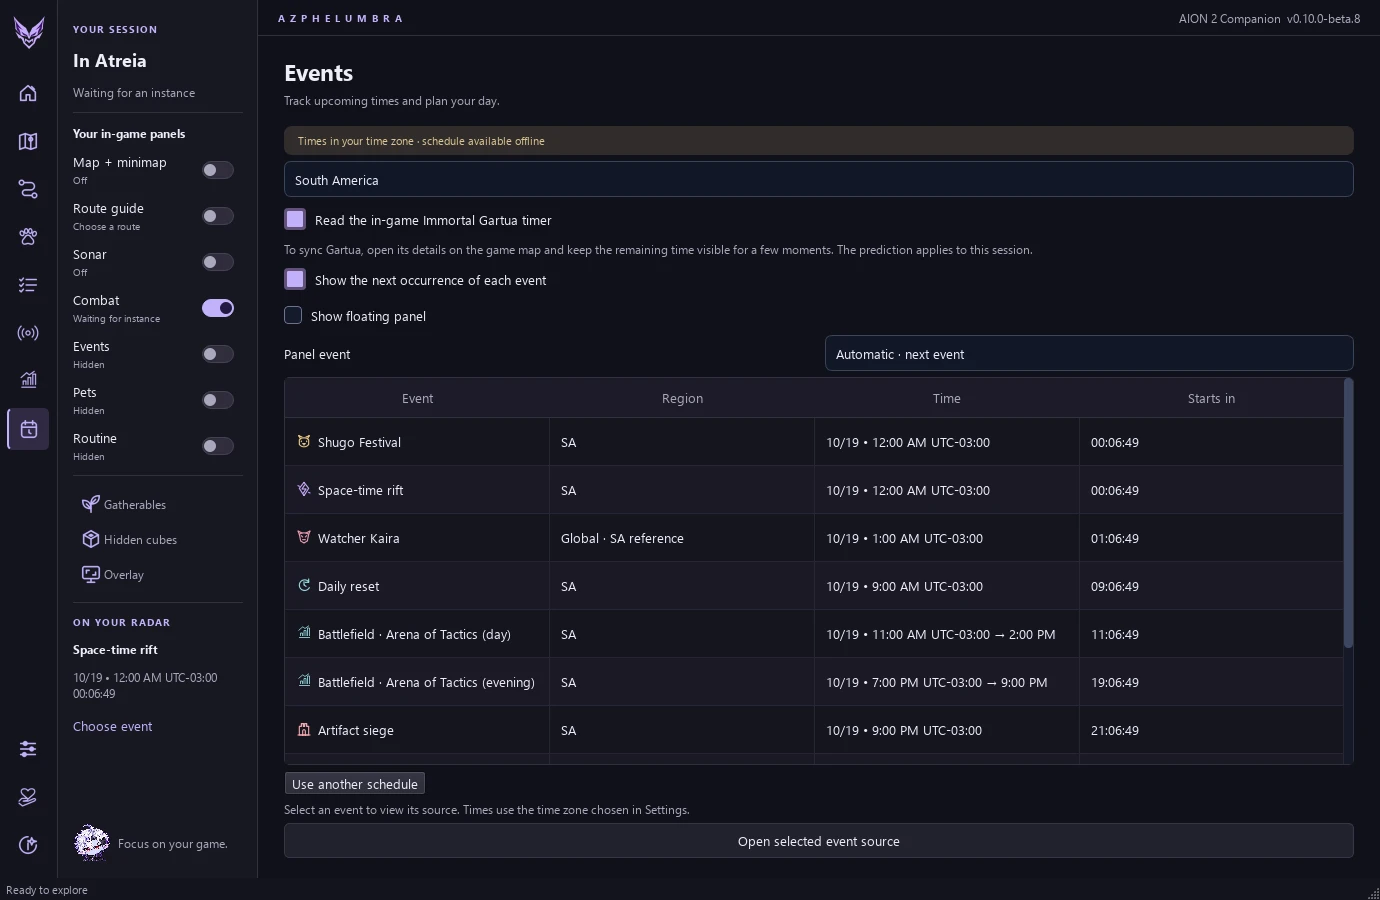
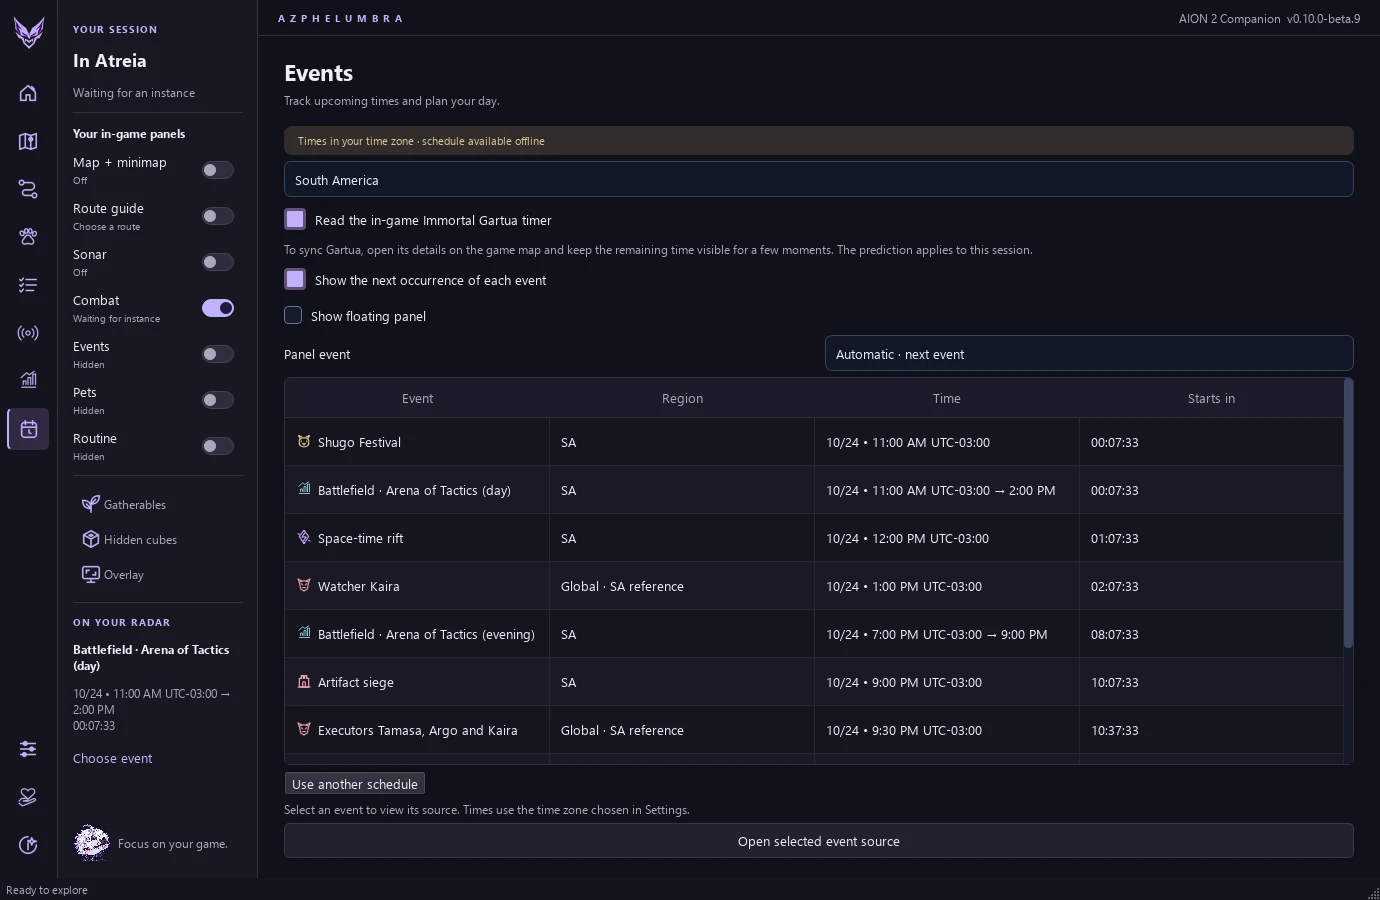
Update website downloads for beta.9 event overlay

diff --git a/website/index.html b/website/index.html
@@ -30,10 +30,10 @@
   <main id="main">
     <section class="hero container">
       <div class="hero-copy">
-        <div class="eyebrow"><span class="live-dot"></span>AION 2 COMPANION <span class="version-pill">v0.10.0-beta.8</span></div>
+        <div class="eyebrow"><span class="live-dot"></span>AION 2 COMPANION <span class="version-pill">v0.10.0-beta.9</span></div>
         <h1 data-i18n="hero.title">Sua próxima<br>descoberta<br><em>começa aqui.</em></h1>
         <p class="hero-description" data-i18n="hero.description">Mapas, rotas de farm, cubos, pets, eventos e combate em um só lugar. Aether cuida do mapa. Você vive a aventura.</p>
-        <div class="hero-buttons"><a class="button primary" href="https://github.com/jpgalvao-architect/strigoi-aether-map/releases/download/v0.10.0-beta.8/StrigoiAetherMap-Setup-0.10.0-beta.8.exe"><svg viewBox="0 0 24 24" fill="none" stroke="currentColor" stroke-width="1.8" aria-hidden="true"><path d="M12 3v12m-5-5 5 5 5-5M4 16v5h16v-5"/></svg><span data-i18n="download.installer">Baixar instalador</span></a><a class="button secondary" href="#explore"><span data-i18n="hero.tour">Conhecer o app</span><span aria-hidden="true">↗</span></a><a class="button secondary" href="guide.html" data-i18n="start.guide">Abrir guia interativo</a></div>
+        <div class="hero-buttons"><a class="button primary" href="https://github.com/jpgalvao-architect/strigoi-aether-map/releases/download/v0.10.0-beta.9/StrigoiAetherMap-Setup-0.10.0-beta.9.exe"><svg viewBox="0 0 24 24" fill="none" stroke="currentColor" stroke-width="1.8" aria-hidden="true"><path d="M12 3v12m-5-5 5 5 5-5M4 16v5h16v-5"/></svg><span data-i18n="download.installer">Baixar instalador</span></a><a class="button secondary" href="#explore"><span data-i18n="hero.tour">Conhecer o app</span><span aria-hidden="true">↗</span></a><a class="button secondary" href="guide.html" data-i18n="start.guide">Abrir guia interativo</a></div>
         <p class="download-note"><svg viewBox="0 0 24 24" aria-hidden="true"><path fill="currentColor" d="m2 4 9-1v9H2zm11-1 9-1v10h-9zM2 14h9v9l-9-1zm11 0h9v10l-9-1z"/></svg><span data-i18n="hero.platform">Windows 10/11 · 64 bits · PT-BR / EN-US</span></p>
         <div class="hero-bottom"><span data-i18n="hero.free">Gratuito, com código aberto</span><span class="divider-dot">·</span><a href="https://github.com/jpgalvao-architect/strigoi-aether-map/blob/main/LICENSE" data-i18n="hero.license">Código GPLv3</a></div>
       </div>
@@ -50,12 +50,12 @@
     <section class="container explore-section" id="explore">
       <div class="section-heading"><div><p class="eyebrow" data-i18n="explore.eyebrow">MENOS ALT-TAB. MAIS EXPLORAÇÃO.</p><h2 data-i18n="explore.title">Um mapa que acompanha<br>a sua jornada.</h2></div><p data-i18n="explore.description">Escolha suas camadas, registre as visitas e deixe o Azphelumbra acompanhar o que importa para você.</p></div>
       <div class="showcase-tabs" role="tablist" aria-label="Conheça as telas" data-i18n-aria="showcase.label"><button type="button" role="tab" id="tab-atlas" aria-selected="true" aria-controls="showcase-panel" tabindex="0" data-tab="atlas"><img src="assets/icons/atlas.svg" alt=""><span data-i18n="tab.atlas">Atlas</span></button><button type="button" role="tab" id="tab-routes" aria-selected="false" aria-controls="showcase-panel" tabindex="-1" data-tab="routes"><img src="assets/icons/routes.svg" alt=""><span data-i18n="tab.routes">Rotas</span></button><button type="button" role="tab" id="tab-overlay" aria-selected="false" aria-controls="showcase-panel" tabindex="-1" data-tab="overlay"><img src="assets/icons/overlay.svg" alt=""><span data-i18n="tab.overlay">Overlay</span></button><button type="button" role="tab" id="tab-events" aria-selected="false" aria-controls="showcase-panel" tabindex="-1" data-tab="events"><img src="assets/icons/events.svg" alt=""><span data-i18n="tab.events">Eventos</span></button><button type="button" role="tab" id="tab-sonar" aria-selected="false" aria-controls="showcase-panel" tabindex="-1" data-tab="sonar"><img src="assets/icons/sonar.svg" alt=""><span>Sonar</span></button><button type="button" role="tab" id="tab-combat" aria-selected="false" aria-controls="showcase-panel" tabindex="-1" data-tab="combat"><img src="assets/icons/combat.svg" alt=""><span data-i18n="tab.combat">Combate</span></button><button type="button" role="tab" id="tab-pets" aria-selected="false" aria-controls="showcase-panel" tabindex="-1" data-tab="pets"><img src="assets/icons/pets.svg" alt=""><span data-i18n="tab.pets">Pets</span></button><button type="button" role="tab" id="tab-routine" aria-selected="false" aria-controls="showcase-panel" tabindex="-1" data-tab="routine"><img src="assets/icons/routine.svg" alt=""><span data-i18n="tab.routine">Rotina</span></button></div>
-      <div class="showcase" id="showcase-panel" role="tabpanel" aria-labelledby="tab-atlas" tabindex="0"><div class="window-chrome"><span class="window-dots"><i></i><i></i><i></i></span><span>AZPHELUMBRA <span class="chrome-version">/ v0.10.0-beta.8</span></span><span class="window-indicator" data-i18n="showcase.actual">TELA REAL DO APP</span></div><img id="app-screenshot" src="assets/app-atlas-pt_BR.webp" alt="Atlas do aplicativo exibindo o mapa real de Altgard" data-i18n-alt="screen.atlas" width="2070" height="1350" loading="lazy"><div class="showcase-caption"><span id="showcase-number">01 / 08</span><div><h3 id="showcase-title" data-i18n="showcase.atlas.title">Seu atlas. Suas camadas.</h3><p id="showcase-description" data-i18n="showcase.atlas.description">Veja ervas e cubos juntos, filtre os recursos e marque os lugares que você já visitou.</p></div><img id="showcase-icon" src="assets/icons/atlas.svg" width="40" height="40" alt=""></div></div>
+      <div class="showcase" id="showcase-panel" role="tabpanel" aria-labelledby="tab-atlas" tabindex="0"><div class="window-chrome"><span class="window-dots"><i></i><i></i><i></i></span><span>AZPHELUMBRA <span class="chrome-version">/ v0.10.0-beta.9</span></span><span class="window-indicator" data-i18n="showcase.actual">TELA REAL DO APP</span></div><img id="app-screenshot" src="assets/app-atlas-pt_BR.webp" alt="Atlas do aplicativo exibindo o mapa real de Altgard" data-i18n-alt="screen.atlas" width="2070" height="1350" loading="lazy"><div class="showcase-caption"><span id="showcase-number">01 / 08</span><div><h3 id="showcase-title" data-i18n="showcase.atlas.title">Seu atlas. Suas camadas.</h3><p id="showcase-description" data-i18n="showcase.atlas.description">Veja ervas e cubos juntos, filtre os recursos e marque os lugares que você já visitou.</p></div><img id="showcase-icon" src="assets/icons/atlas.svg" width="40" height="40" alt=""></div></div>
       <p class="source-note" data-i18n="explore.source">Imagens reais dos mapas e posições comunitárias com origem documentada. Os marcadores indicam locais possíveis, não spawns garantidos.</p>
     </section>
     <section class="sonar-section" id="sonar"><div class="container sonar-grid"><div class="sonar-visual" aria-hidden="true"><div class="sonar-ring ring-1"></div><div class="sonar-ring ring-2"></div><div class="sonar-ring ring-3"></div><img class="sonar-cube" src="assets/icons/cube.svg" alt="" width="88" height="88"><img class="sonar-alert" src="assets/sonar-alert-pt_BR.webp" data-alert-image alt="" width="350" height="181" loading="lazy"><span class="visual-caption" data-i18n="sonar.visual">UMA PISTA SONORA. UM AVISO VISUAL.</span></div><div class="sonar-copy"><p class="eyebrow" data-i18n="sonar.eyebrow">ACESSIBILIDADE AUDITIVA</p><h2 data-i18n="sonar.title">Uma pista que<br>você pode <em>ver.</em></h2><p data-i18n="sonar.description">O Sonar procura indícios do som do cubo e mostra um aviso com barra de intensidade e histórico recente. O volume do jogo influencia a leitura.</p><ul class="check-list"><li data-i18n="sonar.point1">Selecione o aplicativo do jogo e ative quando quiser.</li><li data-i18n="sonar.point2">Sem microfone, gravação ou envio do áudio.</li><li data-i18n="sonar.point3">O Sonar começa desligado a cada abertura.</li></ul><p class="accessibility-note" data-i18n="sonar.note">Desenvolvido como recurso de acessibilidade para pessoas surdas ou com deficiência auditiva. O aviso é uma pista: não confirma o cubo nem revela sua posição exata.</p></div></div></section>
     <section class="container start-section"><p class="eyebrow" data-i18n="start.eyebrow">DO DOWNLOAD À AVENTURA</p><h2 data-i18n="start.title">Pronto em poucos passos.</h2><div class="steps"><article><span class="step-number">01</span><h3 data-i18n="start.one.title">Instale e escolha o idioma</h3><p data-i18n="start.one.text">Baixe o instalador, leia os termos e escolha português ou inglês. Não precisa instalar Python.</p></article><article><span class="step-number">02</span><h3 data-i18n="start.two.title">Monte o seu mapa</h3><p data-i18n="start.two.text">Escolha as camadas do Atlas. A mesma seleção aparece no minimapa e no mapa grande.</p></article><article><span class="step-number">03</span><h3 data-i18n="start.three.title">Entre na aventura</h3><p data-i18n="start.three.text">Ative o overlay, selecione o terreno do minimapa uma vez e escolha o evento que quer acompanhar.</p></article></div><a class="button secondary guide-entry" href="guide.html" data-i18n="start.guide">Abrir guia interativo</a></section>
-    <section class="container download-section" id="download"><div class="download-box"><div><p class="eyebrow" data-i18n="download.eyebrow">SEU PEQUENO GUARDIÃO ESTÁ PRONTO</p><h2 data-i18n="download.title">Nos vemos em Atréia.</h2><p data-i18n="download.description">Escolha como quer usar o Azphelumbra. As duas versões têm os mesmos recursos e incluem o código-fonte.</p></div><div class="download-options"><a class="download-option recommended" href="https://github.com/jpgalvao-architect/strigoi-aether-map/releases/download/v0.10.0-beta.8/StrigoiAetherMap-Setup-0.10.0-beta.8.exe"><div class="option-heading"><span data-i18n="download.installer">Baixar instalador</span><span class="recommend-tag" data-i18n="download.recommended">Recomendado</span></div><p data-i18n="download.installer.detail">Atalhos, idioma inicial, desinstalação e assistente oficial do Npcap para Combate e Pets.</p><span class="option-meta">.EXE · 220.6 MB <span aria-hidden="true">↓</span></span></a><a class="download-option" href="https://github.com/jpgalvao-architect/strigoi-aether-map/releases/download/v0.10.0-beta.8/Azphelumbra-0.10.0-beta.8-windows-x64.zip"><div class="option-heading"><span data-i18n="download.portable">Baixar portátil</span><span aria-hidden="true">↗</span></div><p data-i18n="download.portable.detail">Extraia a pasta inteira e abra o app.</p><span class="option-meta">.ZIP · 259.4 MB <span aria-hidden="true">↓</span></span></a></div><p class="source-note" data-i18n="download.beta">Novo na beta.8: crie rotas de farm e acompanhe as paradas pelo centro do minimapa, sem calibrar a seta. A revalidação acompanha o terreno em movimento. A agenda inclui Battlefield, previsão do Gartua pelo contador e referências Global dos bosses do Abyss. Combate e PvP continuam experimentais.</p><div class="download-links"><span>v0.10.0-beta.8 · Windows x64</span><a href="terms.html" data-i18n="download.terms">Ler os termos de uso</a><a href="https://github.com/jpgalvao-architect/strigoi-aether-map/releases/download/v0.10.0-beta.8/SHA256SUMS.txt" data-i18n="download.checksums">Verificar arquivos · SHA-256</a></div></div></section>
+    <section class="container download-section" id="download"><div class="download-box"><div><p class="eyebrow" data-i18n="download.eyebrow">SEU PEQUENO GUARDIÃO ESTÁ PRONTO</p><h2 data-i18n="download.title">Nos vemos em Atréia.</h2><p data-i18n="download.description">Escolha como quer usar o Azphelumbra. As duas versões têm os mesmos recursos e incluem o código-fonte.</p></div><div class="download-options"><a class="download-option recommended" href="https://github.com/jpgalvao-architect/strigoi-aether-map/releases/download/v0.10.0-beta.9/StrigoiAetherMap-Setup-0.10.0-beta.9.exe"><div class="option-heading"><span data-i18n="download.installer">Baixar instalador</span><span class="recommend-tag" data-i18n="download.recommended">Recomendado</span></div><p data-i18n="download.installer.detail">Atalhos, idioma inicial, desinstalação e assistente oficial do Npcap para Combate e Pets.</p><span class="option-meta">.EXE · 220.6 MB <span aria-hidden="true">↓</span></span></a><a class="download-option" href="https://github.com/jpgalvao-architect/strigoi-aether-map/releases/download/v0.10.0-beta.9/Azphelumbra-0.10.0-beta.9-windows-x64.zip"><div class="option-heading"><span data-i18n="download.portable">Baixar portátil</span><span aria-hidden="true">↗</span></div><p data-i18n="download.portable.detail">Extraia a pasta inteira e abra o app.</p><span class="option-meta">.ZIP · 259.4 MB <span aria-hidden="true">↓</span></span></a></div><p class="source-note" data-i18n="download.beta">Novo na beta.9: a Battlefield · Arena of Tactics permanece na agenda do app e sai do painel flutuante, deixando espaço para os demais eventos. Uma seleção antiga da Battlefield passa automaticamente ao próximo evento permitido. Rotas, configurações e demais recursos são preservados; Combate e PvP continuam experimentais.</p><div class="download-links"><span>v0.10.0-beta.9 · Windows x64</span><a href="terms.html" data-i18n="download.terms">Ler os termos de uso</a><a href="https://github.com/jpgalvao-architect/strigoi-aether-map/releases/download/v0.10.0-beta.9/SHA256SUMS.txt" data-i18n="download.checksums">Verificar arquivos · SHA-256</a></div></div></section>
     <section class="container faq-section"><div><p class="eyebrow" data-i18n="faq.eyebrow">SEM MISTÉRIO</p><h2 data-i18n="faq.title">Antes de partir.</h2></div><div class="faq-list"><details><summary data-i18n="faq.one.q">O aplicativo modifica o jogo?</summary><p data-i18n="faq.one.a">Não. Os marcadores e avisos são janelas externas de overlay. O app analisa a imagem da tela e recebe o áudio pelo Windows; não injeta código nas DLLs, não altera arquivos nem lê a memória do AION 2. O Combate lê passivamente a conexão do jogo usando Npcap. Os termos descrevem as condições de uso.</p></details><details><summary data-i18n="faq.two.q">Funciona no minimapa e no mapa grande?</summary><p data-i18n="faq.two.a">Sim, com minimapa retangular e norte fixo. Selecione só o terreno do minimapa, sem a barra de título. Ao abrir o mapa grande com M, o overlay muda automaticamente; ao fechar, volta ao minimapa.</p></details><details><summary data-i18n="faq.three.q">A agenda é para a América do Sul?</summary><p data-i18n="faq.three.a">Há perfis de agenda SA, com fontes documentadas e horários no fuso que você escolher. Os mapas e locais possíveis vêm de bases comunitárias compartilhadas; as posições não foram verificadas individualmente em SA. Você pode consultar as fontes no aplicativo.</p></details><details><summary data-i18n="faq.four.q">Posso usar sem abrir o jogo?</summary><p data-i18n="faq.four.a">O Atlas, as visitas e a agenda local funcionam offline. Para usar overlay e Sonar, abra o jogo e ative esses recursos. Suas preferências e registros ficam no seu computador.</p></details><details><summary data-i18n="faq.five.q">Como troco o idioma depois de instalar?</summary><p data-i18n="faq.five.a">Abra Configurações → Idioma do aplicativo. A troca entre português do Brasil e inglês dos EUA é imediata. Ela não altera seus filtros, visitas, região ou fuso horário.</p></details><details><summary data-i18n="faq.six.q">Onde estão as licenças e o código?</summary><p data-i18n="faq.six.a">O código próprio usa GPLv3 e está no GitHub e nos downloads. Mapas, dados comunitários e componentes de terceiros mantêm seus direitos e licenças, incluindo CC BY-NC 4.0 para mapas e dados comunitários.</p><a href="https://github.com/jpgalvao-architect/strigoi-aether-map/blob/main/THIRD_PARTY.md" data-i18n="faq.licenses">Consultar licenças e créditos →</a></details></div></section>
     <section class="container support-section" id="support"><div class="support-copy"><img src="assets/icons/donate.svg" width="38" height="38" alt=""><h2 data-i18n="support.title">Curtiu a companhia?</h2><p data-i18n="support.description">Se meu trabalho te ajudou e você quiser retribuir, pode deixar uma força por aqui. Sem pressão: usar o app, mandar feedback e compartilhar com a galera já ajuda demais.</p><a class="button secondary" href="https://link.mercadopago.com.br/thothworlds" target="_blank" rel="noopener noreferrer"><span data-i18n="support.creator">Apoiar o criador</span><span aria-hidden="true">↗</span></a><small data-i18n="support.recipient">Apoio pessoal ao criador · Mercado Pago</small></div><div class="community-support"><p class="eyebrow" data-i18n="support.community.eyebrow">APOIE TAMBÉM A COMUNIDADE SURDA</p><p data-i18n="support.community.description">Você também pode contribuir diretamente com instituições brasileiras que apoiam pessoas surdas.</p><a href="https://assjp.org.br/junte-nos/seja-apoiador/" target="_blank" rel="noopener noreferrer">ASSJP<span>São José dos Pinhais</span><span aria-hidden="true">↗</span></a><a href="https://www.ascontagem.org.br/" target="_blank" rel="noopener noreferrer">ASC<span>Contagem</span><span aria-hidden="true">↗</span></a><small data-i18n="support.community.note">Doações feitas nos canais oficiais das instituições. Destinatários diferentes do apoio ao criador.</small></div></section>
   </main>

diff --git a/website/site.js b/website/site.js
@@ -31,7 +31,7 @@
     'screen.combat': 'Módulo Combate com dano observado, DPS e participação do grupo',
     'showcase.combat.title': 'Seu grupo. Seu dano observado.',
     'showcase.combat.description': 'A medição aguarda o jogo e o painel aparece nas instâncias reconhecidas. Ao sair, ele se oculta; a leitura continua. O menu rápido permite desativar a exibição, e o histórico fica preservado.',
-    'download.beta': "Novo na beta.8: crie rotas de farm e acompanhe as paradas pelo centro do minimapa, sem calibrar a seta. A revalidação acompanha o terreno em movimento. A agenda inclui Battlefield, previsão do Gartua pelo contador e referências Global dos bosses do Abyss. Combate e PvP continuam experimentais.",
+    'download.beta': "Novo na beta.9: a Battlefield · Arena of Tactics permanece na agenda do app e sai do painel flutuante, deixando espaço para os demais eventos. Uma seleção antiga da Battlefield passa automaticamente ao próximo evento permitido. Rotas, configurações e demais recursos são preservados; Combate e PvP continuam experimentais.",
     'showcase.sonar.title': 'O som vira uma pista na tela.',
     'showcase.sonar.description': 'Ative o Sonar e acompanhe a intensidade estimada do som reconhecido no medidor do aviso.',
   });
@@ -78,7 +78,7 @@
     'screen.combat': 'Combat module with observed damage, DPS and group share',
     'showcase.combat.title': 'Your group. Your observed damage.',
     'showcase.combat.description': 'Capture waits for the game and the panel appears in recognized instances. On exit it hides while capture continues. Quick controls can disable panel display, and history is preserved.',
-    'download.beta': "New in beta.8: build farming routes and follow stops from the minimap center, without arrow setup. Revalidation follows moving terrain. The schedule adds Battlefield, Gartua predictions from its countdown, and Global reference times for Abyss bosses. Combat and PvP remain experimental.",
+    'download.beta': "New in beta.9: Battlefield · Arena of Tactics stays in the app agenda and leaves the floating panel, making room for other events. Previously saved Battlefield choices automatically fall back to the next eligible event. Routes, settings and other features are preserved; Combat and PvP remain experimental.",
     'showcase.sonar.title': 'Sound becomes a clue on screen.',
     'showcase.sonar.description': 'Enable Sonar and follow recognized sound intensity in the alert meter. The Sonar page also shows recent history.',
     'explore.source': 'Real map images and community locations with documented sources. Markers indicate possible locations, not guaranteed spawns.',

diff --git a/website/guide-content.js b/website/guide-content.js
@@ -918,8 +918,8 @@ window.StrigoiGuide = {
             "en_US": "Battlefield opens daily from 11:00 to 14:00 and 19:00 to 21:00 on the SA clock. For Gartua, enable reading and keep its name and Time Left visible near the top of the screen; two matching readings create a prediction for this session."
           },
           "tip": {
-            "pt_BR": "Gartua não recebe horário diário presumido. Bosses do Abyss estão identificados como referência Global, ainda sem confirmação individual em SA.",
-            "en_US": "No daily Gartua schedule is assumed. Abyss bosses are labeled Global references, not individually confirmed on SA."
+            "pt_BR": "A Battlefield aparece apenas na agenda do app, sem ocupar o painel flutuante. Gartua não recebe horário diário presumido. Bosses do Abyss são referências Global ainda sem confirmação individual em SA.",
+            "en_US": "Battlefield appears only in the app agenda and does not occupy the floating panel. No daily Gartua schedule is assumed. Abyss bosses are Global references not individually confirmed on SA."
           }
         }
       ],
